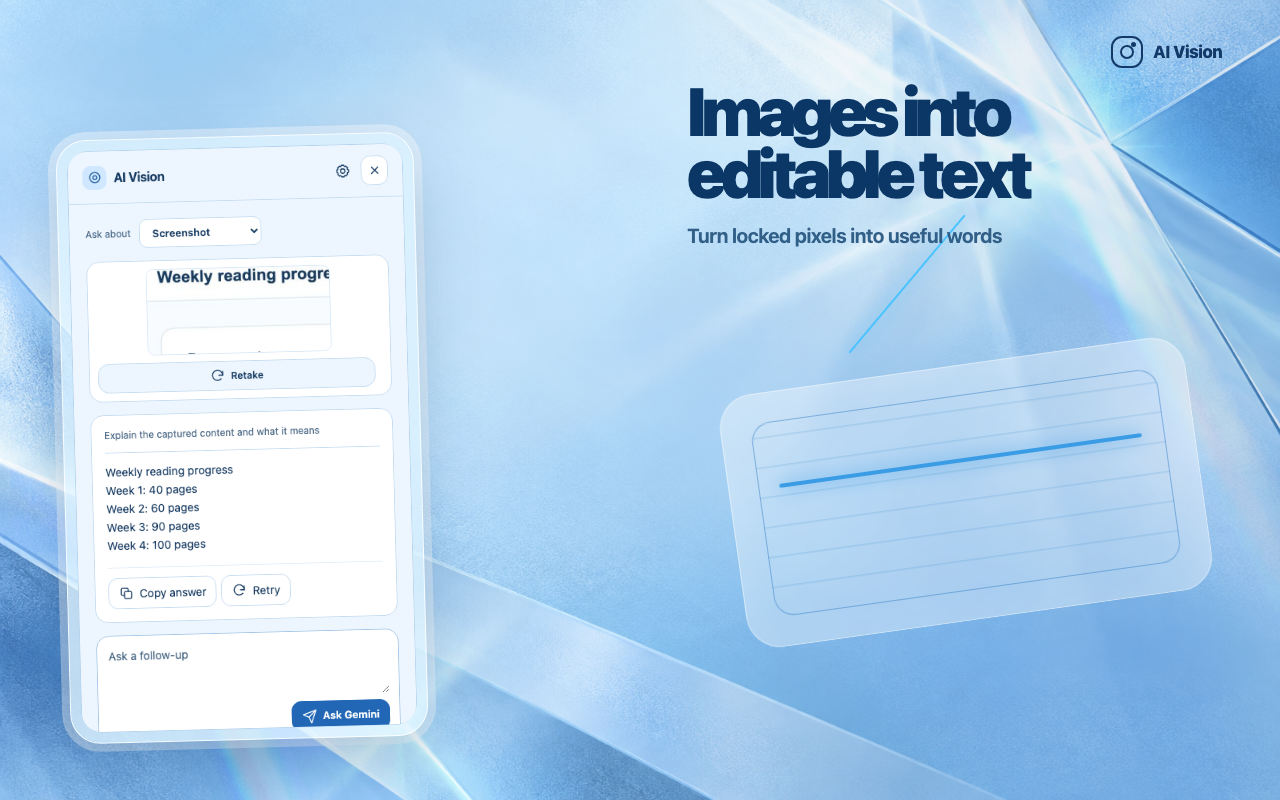
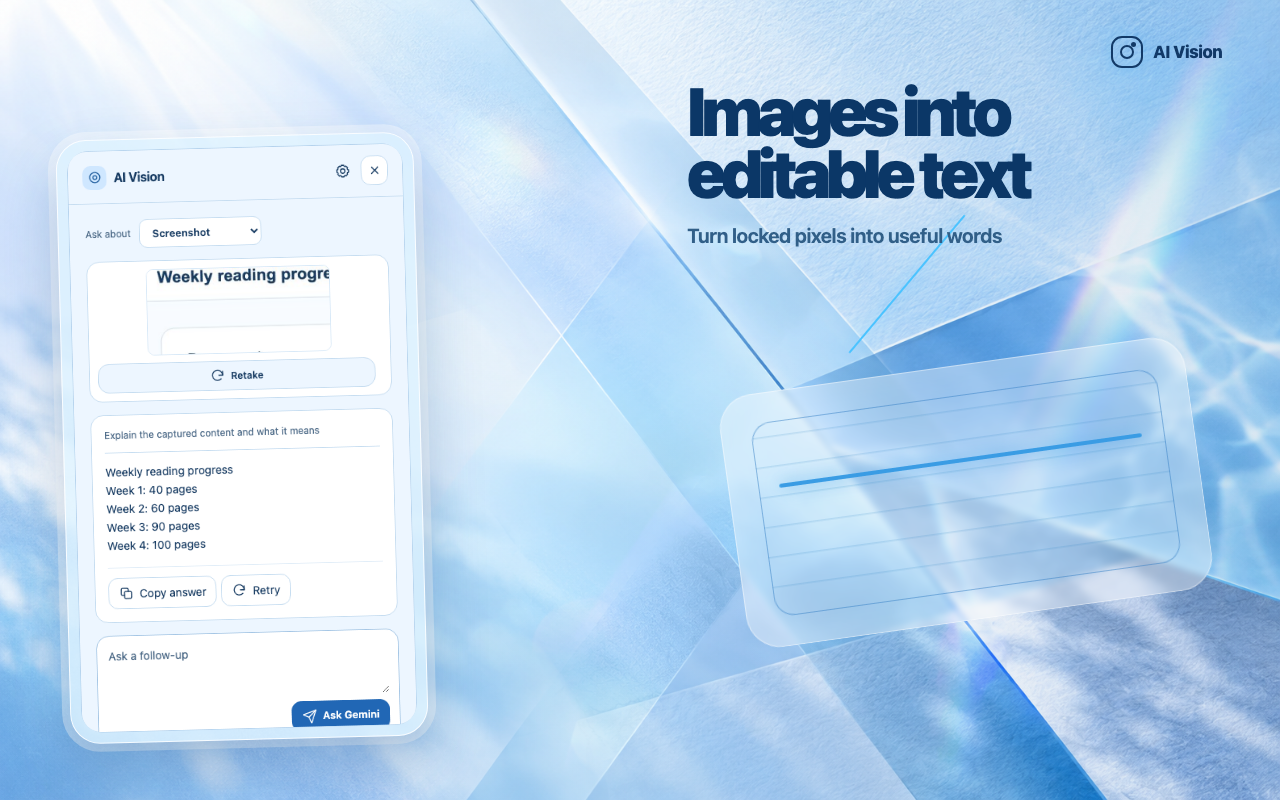
artwork: refresh screenshots with light blue backgrounds

diff --git a/release-assets-v2.8.2/README.md b/release-assets-v2.8.2/README.md
@@ -1,6 +1,6 @@
 # AI Vision 2.8.2 store artwork
 
-This set contains five separate Chrome Web Store screenshots for the current AI Vision release. Each composition uses a distinct blue palette, layout, background treatment, and visual rhythm while keeping the authentic extension panel capture intact.
+This set contains five separate Chrome Web Store screenshots for the current AI Vision release. Each composition uses a distinct light-blue palette, layout, background treatment, and visual rhythm while keeping the authentic extension panel capture intact.
 
 The `source/backgrounds/` files are text-free generated artwork used as compositional backdrops. The `source/ui-captures/` files are period-clean artwork-only captures from the existing browser harness; the production extension copy remains unchanged.
 
